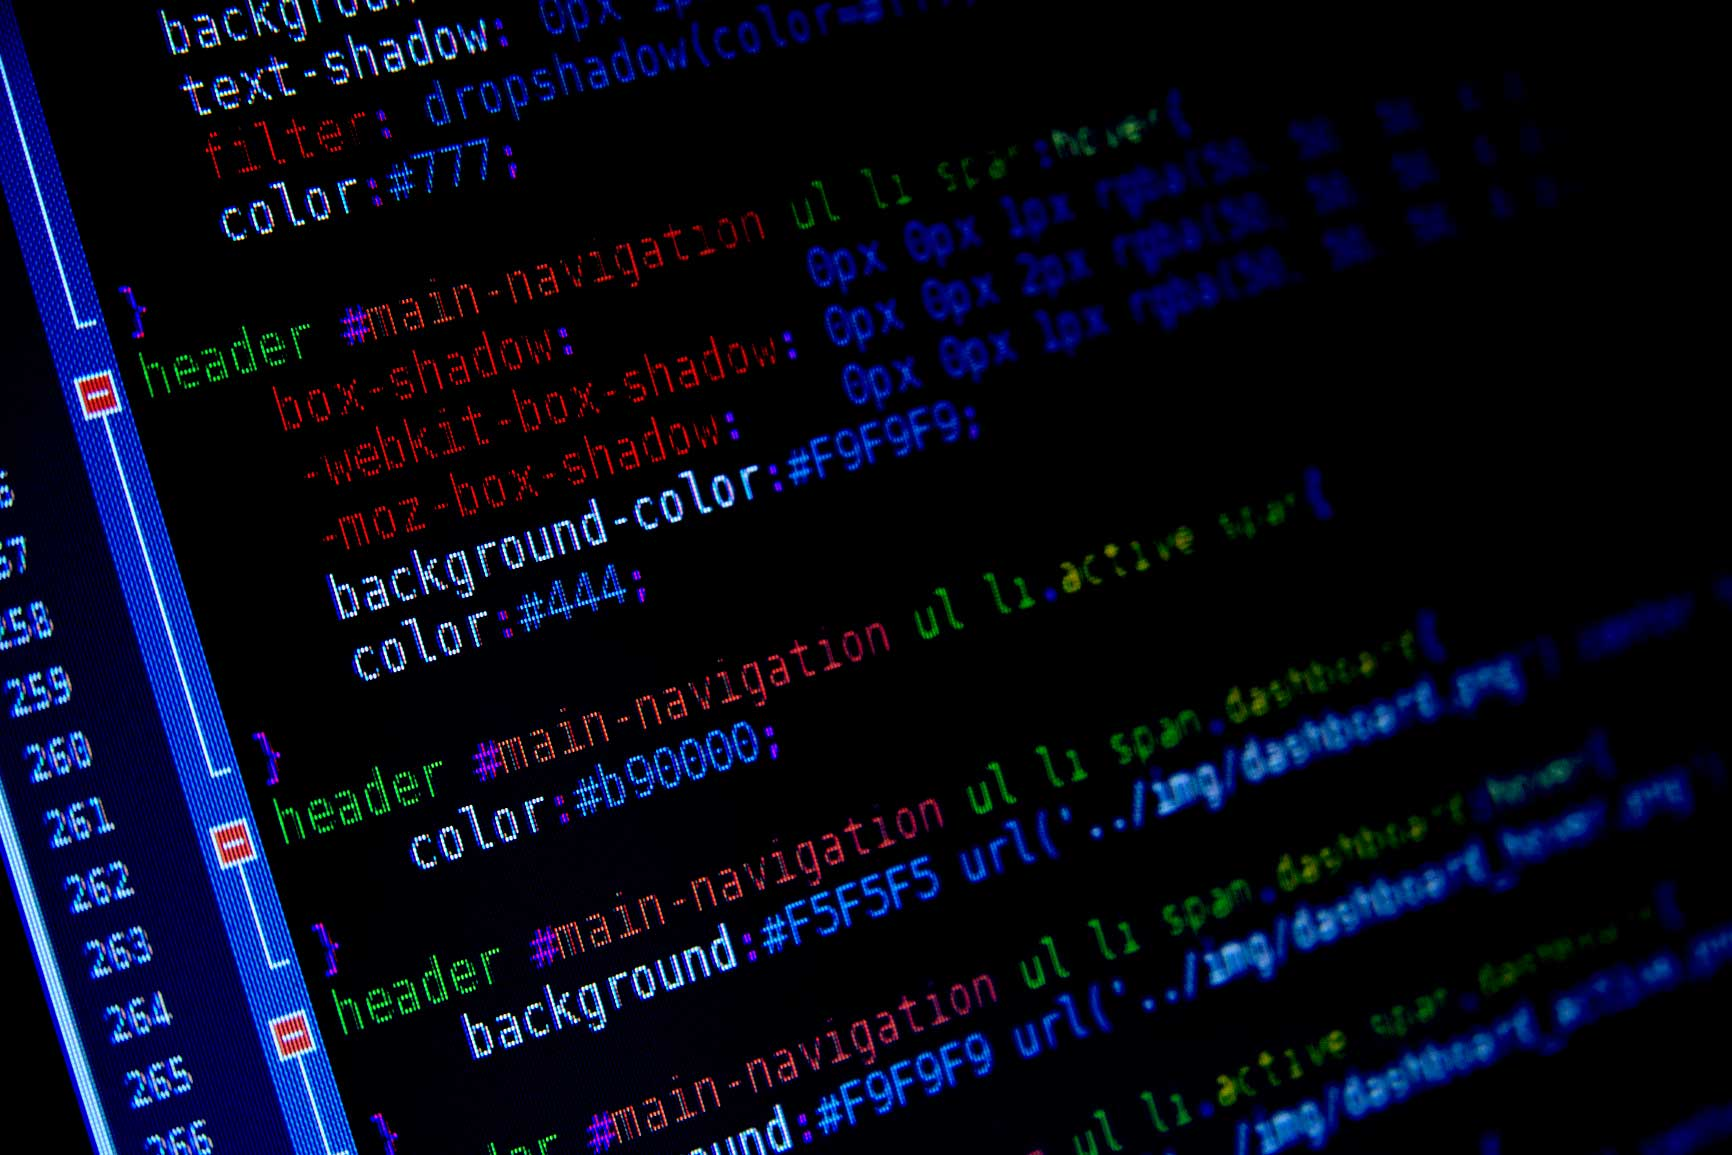
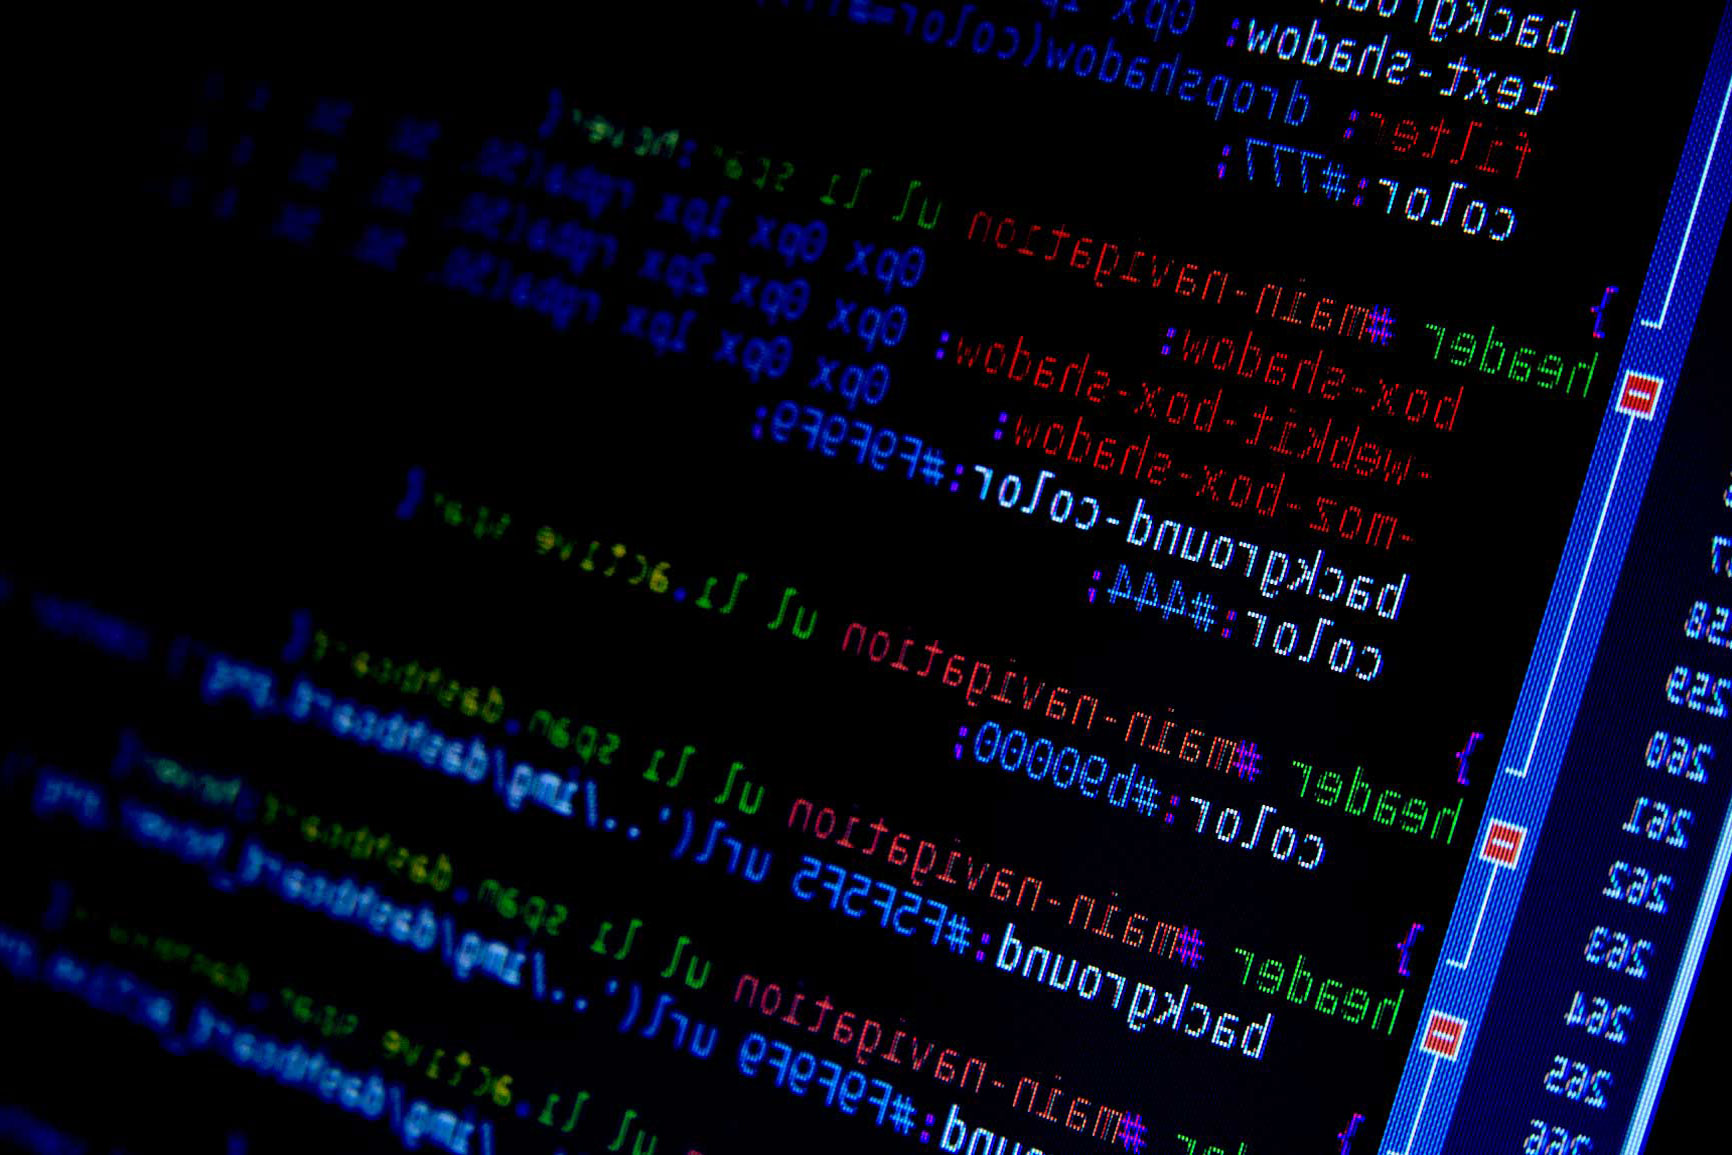
background image reversed

diff --git a/index.html b/index.html
@@ -181,7 +181,7 @@
                 </div>
                 <div class="col-md-6 col-sm-12 text-center video lyrics">
                    <iframe width="560" height="315" src="https://www.youtube.com/embed/aIuDd5IBapI?rel=0" frameborder="0" allowfullscreen></iframe>
-                    <h3 class="visible-xs lyrics">The Hair Brushing Song</h3>
+                    <h4 class="visible-xs lyrics">The Hair Brushing Song</h4>
                 </div>
             </div>
         </div>
@@ -201,7 +201,7 @@
                 </div>
                 <div class="col-md-6 col-sm-12 text-center video lyrics">
                    <iframe width="560" height="315" src="https://www.youtube.com/embed/EYPtPWDIjzE?rel=0" frameborder="0" allowfullscreen></iframe>
-                    <h3 class="visible-xs">Baron Von Graushausen</h3>
+                    <h4 class="visible-xs">Baron Von Graushausen</h4>
                 </div>
             </div>
         </div>
@@ -221,7 +221,7 @@
                 </div>
                 <div class="col-md-6 col-sm-12 text-center video lyrics">
                    <iframe width="560" height="315" src="https://www.youtube.com/embed/Ozu52J2fFM4?rel=0" frameborder="0" allowfullscreen></iframe>
-                    <h3 class="visible-xs">Ten Pound Pee</h3>
+                    <h4 class="visible-xs">Ten Pound Pee</h4>
                 </div>
             </div>
         </div>

diff --git a/css/somesongs-style.css b/css/somesongs-style.css
@@ -142,12 +142,6 @@ ul.dropdown-menu {
     padding: 10px 0 10px;
     width: 95%
 }
-    
-    .lyrics h3 {
-    font-family: "Righteous";
-    padding: 10px 0 20px;
-    font-size: 2em;
-}
 }
 
 /*tablet*/
@@ -258,6 +252,13 @@ ul.dropdown-menu {
     padding: 10px 0 10px;
     font-size: 5em;
 }
+
+.lyrics h4 {
+    font-family: "Righteous";
+    padding: 10px 0 20px;
+    font-size: 3em;
+}
+
 
 .songs2 {
     background: url('../img/the_baron.jpg');
